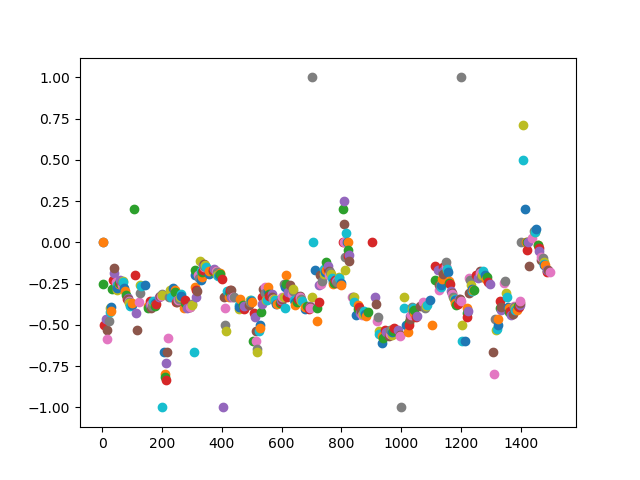
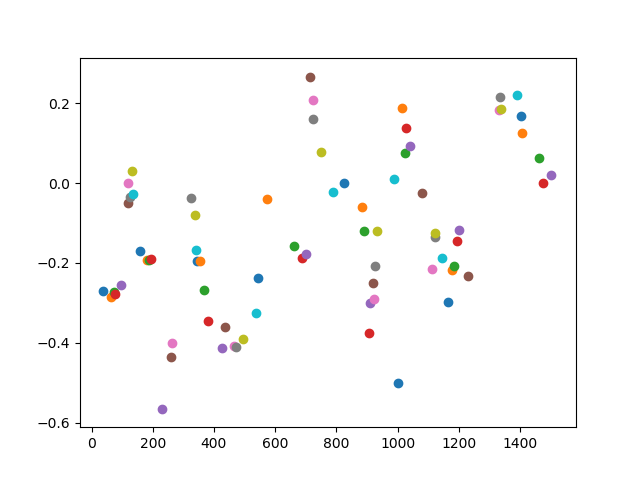
init

diff --git a/play_market.py b/play_market.py
@@ -1,16 +1,14 @@
 import copy
 import os
-import random
 import time
-
-from keras.engine.saving import load_model
-from ta import *
-
-from data.data_manager import get_data
-from envrionment.market_env import Agent, MarketEnvironment, DataAgent
 
 import matplotlib.pyplot as plt
 
+from ta import *
+
+from agent.env_agents import Agent
+from data.data_manager import get_data
+from envrionment.market_env import MarketEnvironment, DataAgent
 from pattern_encoder import encode_column_to_range_index, decode_column_to_int
 
 dirname = os.path.dirname(__file__)
@@ -25,7 +23,7 @@ interval = 1
 future_state = 4
 state_size = 3
 action_size = 3
-considering_steps = 7
+considering_steps = 12
 
 rsi_range = range(14, 15)
 tsi_range = range(14, 15)
@@ -34,39 +32,64 @@ aroon_range = range(25, 26)
 dpo_range = range(20, 26)
 
 data_csv = get_data(pair_name, interval)
+data_csv['Ct'] = data_csv.Close.shift(considering_steps)
+data_csv.dropna(inplace=True)
 print(data_csv.head())
 df = pd.DataFrame()
 close_s = data_csv.Close
 df['C'] = close_s
 
+
+def process_change_series(close_s, step_back_s):
+    series = (step_back_s - close_s) * 100 / close_s
+    # print(series[-1:])
+    return series.apply(encode_column_to_range_index)
+
+
 for rsi_i in rsi_range:
-    df['RSI({})'.format(rsi_i)] = rsi(data_csv.Close)
+    df['RSI({})'.format(rsi_i)] = rsi(close_s)
 
 for atr_i in tsi_range:
-    df['ATR({})'.format(atr_i)] = average_true_range(data_csv.High, data_csv.Low, data_csv.Close, n=atr_i)
+    df['ATR({})'.format(atr_i)] = average_true_range(data_csv.High, data_csv.Low, close_s, n=atr_i)
 
 for ema_i in emi_range:
-    df['exp({})'.format(ema_i)] = ema(data_csv.Close, ema_i)
+    df['exp({})'.format(ema_i)] = ema(close_s, ema_i)
 
 for aron_i in aroon_range:
-    df['arn_d({})'.format(aron_i)] = aroon_down(data_csv.Close, n=aron_i)
-    df['arn_u({})'.format(aron_i)] = aroon_up(data_csv.Close, n=aron_i)
+    df['arn_d({})'.format(aron_i)] = aroon_down(close_s, n=aron_i)
+    df['arn_u({})'.format(aron_i)] = aroon_up(close_s, n=aron_i)
 
 for dpo_i in dpo_range:
     df['dpo({})'.format(dpo_i)] = ema(data_csv.Close, dpo_i)
 
 # Pattern
-df['P'] = pd.Series(np.full(df['C'].values.shape, ''))
-for back_step in range(-considering_steps, 0):
-    series = (close_s.shift(-back_step) - close_s) * 100 / close_s
-    series = series.apply(encode_column_to_range_index)
-    df['P'] = df['P'] + series
-df.dropna(inplace=True)
-df['P'] = df.P.apply(decode_column_to_int)
+series = (close_s.shift(1) - close_s) * 100 / close_s
+series = series.apply(encode_column_to_range_index)
+df['P1'] = series
+df['P2'] = series
+df['P3'] = series
+#
+for back_step in range(2, (considering_steps - 1) + 1):
+    df['P1'] += process_change_series(close_s, close_s.shift(back_step))
+#
+for back_step in range(2, 5):
+    df['P2'] += process_change_series(close_s, close_s.shift(back_step))
 
+#
+for back_step in range(2, 4):
+    df['P3'] += process_change_series(close_s, close_s.shift(back_step))
+
+# print(df['P'])
+df.dropna(inplace=True)
+# print(df.values[-10:, -4:])
+df['P1'] = df.P1.apply(decode_column_to_int)
+df['P2'] = df.P2.apply(decode_column_to_int)
+df['P3'] = df.P3.apply(decode_column_to_int)
+# print(df.values[-10:, -4:])
 state_size = df.shape[1]
 
-print(df.describe())
+print(df.tail())
+print(data_csv.tail())
 
 
 class CsvDataAgent(DataAgent):
@@ -118,7 +141,9 @@ class MarketAgent(Agent):
 
     def after_init(self):
         # self.build_model((1, self.state_size))
-        self.model = load_model(model_path + "fx_agent_rl__0")
+        from keras.engine.saving import load_model
+
+        self.model = load_model(model_path + "fx_agent_rl__4")
 
     def update_policy(self, action, reward, state, state_next):
         target = np.zeros((self.action_size))
@@ -133,22 +158,16 @@ class MarketAgent(Agent):
         train_y = []
         for state, next_state, action, reward in memory:
             train_x.append(state)
-            # print(state)
             target = self.update_policy(action, reward, state, next_state)
-            # print(state, target)
             train_y.append(target)
 
         train_x = np.array(train_x)
         train_y = np.array(train_y)
         train_x = np.reshape(train_x, (train_x.shape[0], 1, self.state_size))
-        # print(train_y)
-        # print(train_y.shape)
         self.model.fit(train_x, train_y, verbose=0, batch_size=32)
 
-        print(self.train_itr)
-
         if self.train_itr % 5 == 0:
-            prefix = self.train_itr % 5
+            prefix = self.itr_index % 5
             self.model.save(model_path + '' + self.name + "_{}".format(prefix))
 
     def predict_action(self, state):
@@ -168,7 +187,7 @@ def dif_to_action(diff):
 
 
 class EURUSDMarket(MarketEnvironment):
-    reward_player = None  # RewardPlayer()
+    reward_player = RewardPlayer()
 
     reward_index = 0
     reward_cum_index = 1
@@ -197,7 +216,12 @@ class EURUSDMarket(MarketEnvironment):
 
 
 data_agent = CsvDataAgent()
-prediction_agent = MarketAgent("fx_agent_rl_", state_size=state_size, max_mem_len=2.5e3, forget_rate=0.6)
+prediction_agent = MarketAgent("fx_agent_rl_",
+                               state_size=state_size,
+                               gamma=0.95,
+                               epsilon_decay=0.9,
+                               max_mem_len=5e2,
+                               forget_rate=0.2)
 
 market_env = EURUSDMarket(agent=prediction_agent, data_agent=data_agent)
 while market_env.stop_command is not True:

diff --git a/agent/env_agents.py b/agent/env_agents.py
@@ -5,16 +5,21 @@ import numpy as np
 
 class Agent():
     train_itr = 0
+    itr_index = 0
 
     def __init__(self,
                  name,
                  max_mem_len=1e3,
-                 gamma=1e-2,
+                 gamma=0.5,
                  state_size=1,
                  action_size=3,
                  forget_rate=0.03,
-                 epsilon=1e-4,
+                 epsilon=1,
+                 epsilon_min=1e-4,
+                 epsilon_decay=0.9,
                  train_agent=True):
+        self.epsilon_decay = epsilon_decay
+        self.epsilon_min = epsilon_min
         self.name = name
         self.state_size = state_size
         self.gamma = gamma
@@ -40,6 +45,13 @@ class Agent():
     def train(self):
         pass
 
+    def __train(self):
+        self.train()
+        self.train_itr += 1
+        # Train Decay
+        if self.epsilon > self.epsilon_min:
+            self.epsilon *= self.epsilon_decay
+
     def memorise(self, event):
         # print(event)
         # Memories Event
@@ -49,13 +61,12 @@ class Agent():
         if len(self.__memory__) == self.__memory__.maxlen:
             if self.train_agent:
                 # Train
-                self.train()
-                self.train_itr += 1
+                self.__train()
 
             # Forget Memory events
             for f in range(int(len(self.__memory__) * self.forget_rate)):
                 self.__memory__.popleft()
-
+        self.itr_index += 1
         # if random.random() > (1 - self.forget_rate):
         #     for f in range(int(len(self.__memory__) * self.forget_rate)):
         #         self.__memory__.popleft()

diff --git a/pattern_encoder.py b/pattern_encoder.py
@@ -4,13 +4,13 @@ x = 0.01
 encoder_base = BaseConverter('USD')
 
 filter_ranges = [
-    {'range': (-100, -3 * x), 'label': 'U'},
-    {'range': (-3 * x, -2 * x), 'label': 'U'},
-    {'range': (-2 * x, -x), 'label': 'U'},
+    {'range': (-100, -3 * x), 'label': 'D'},
+    {'range': (-3 * x, -2 * x), 'label': 'D'},
+    {'range': (-2 * x, -x), 'label': 'D'},
     {'range': (-x, x), 'label': 'S'},
-    {'range': (x, 2 * x), 'label': 'D'},
-    {'range': (2 * x, 3 * x), 'label': 'D'},
-    {'range': (3 * x, 100), 'label': 'D'},
+    {'range': (x, 2 * x), 'label': 'U'},
+    {'range': (2 * x, 3 * x), 'label': 'U'},
+    {'range': (3 * x, 100), 'label': 'U'},
 ]
 
 
@@ -32,13 +32,16 @@ def encode_column_to_range_index(x, i=0, alpha=0.001):
     for f in filter_ranges:
         if f['range'][0] <= x + (alpha * i) <= f['range'][1]:
             return f['label']
-
-    # print("TN--{}".format(x))
-    return x
+    # print("None",x)
+    return "U"
 
 
 def decode_column_to_int(x):
     return int(encoder_base.decode(x)) / float(encoder_base.decode("".rjust(len(x), 'D')))
 
 
+
 encode_column_to_range_index(-0.02)
+
+decode_column_to_int("UUUDSDSSS")
+encoder_base.decode("DDDDDDDDD")
